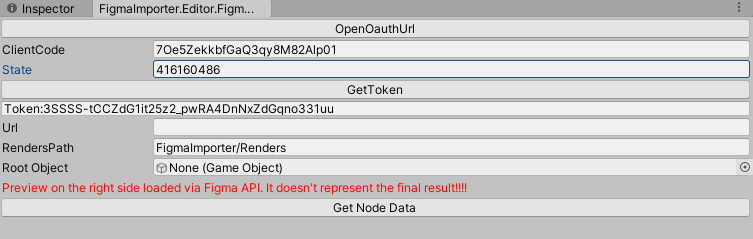
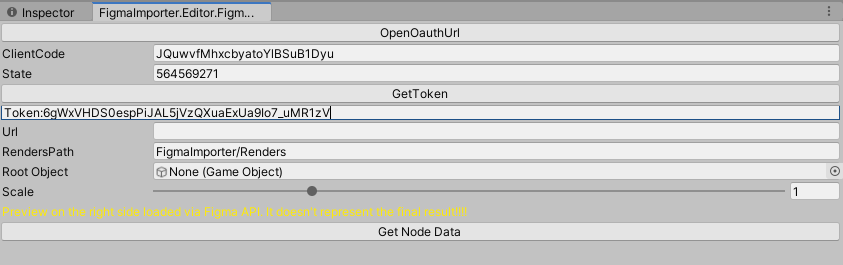
Updated readme.

diff --git a/README.md b/README.md
@@ -48,9 +48,21 @@ The actions are:
 
 ![Get File](./ReadmeImages/step6.png)
 
+As you can see there are three additional buttons. That help you to change actions on nodes:
+- To generate - it is default behaviour. Render nodes as raster. Generate nodes that has childs. Generate text nodes.
+- To Transform - set action "Transform" to all nodes. It can be useful if you apply changes to existing object.
+- To SVG - if you have installed Unity's Vector Graphics package it will try to load all images as svg.
+
+![Get File](./ReadmeImages/step6_1.png)
 When you picked all actions. Press "Generate nodes" button. And it will try generating the node in referenced Canvas. That's all!
 
 ![Get File](./ReadmeImages/step7.png)
+
+If you pick already existing object (previously generated node). You can set it as root object. And all changes will be applied to the created gameobjects. It finds appropriate gameobjects by their id's in name in squared braces like [0:329]
+![Get File](./ReadmeImages/step7_1.png)
+
+By the way, there is an option to scale objects and raster images by changing scale parameter. The maximum scale that you can get is x4. Figma doesnt allow to get bigger scale of rendered image.
+![Get File](./ReadmeImages/step7_2.png)
 
 There is also one thing with Fonts.
 If you got the error about Font. You should add it in FontLinks.asset scriptable object.
@@ -62,3 +74,6 @@ Changed position calculating for nodes. Now it doesnt use tricky operations with
 Now if you choose existing object, instead of canvas, it will apply all changes to it without creating a new one.
 Also added scale option.
 Will test it and rewrite readme a little bit later.
+##Update 21.11.2021
+Some refactoring.
+Added SVG support.
